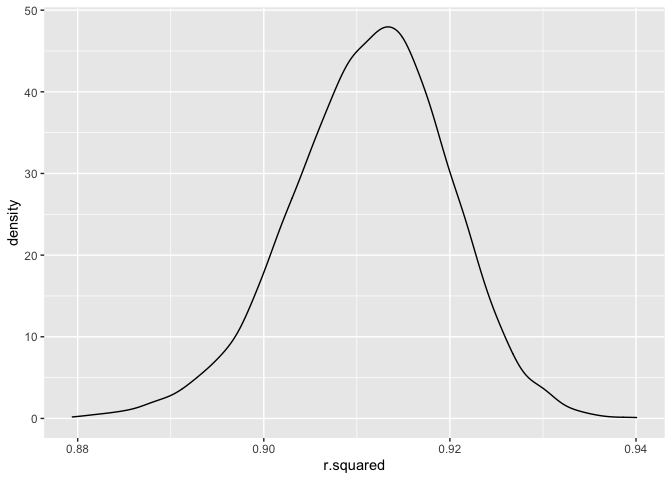
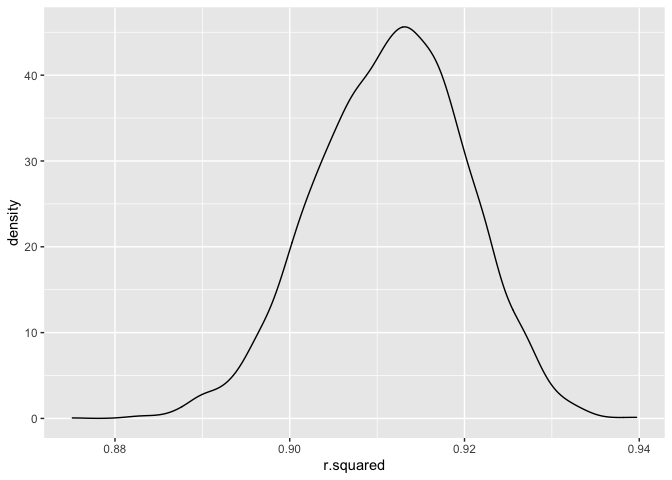
some corrections

diff --git a/p8105_hw6_yg2762.md b/p8105_hw6_yg2762.md
@@ -45,10 +45,11 @@ birthweight =
     frace = as.factor(frace),
     frace = fct_recode(frace, "white" = "1", "black" = "2", "asian" = "3", 
                        "puerto rican" = "4", "other" = "8"),
-    malform = as.logical(malform),
+    malform = as.factor(malform),
+    malform = fct_recode(malform, "absent" = "0", "present" = "1"),
     mrace = as.factor(mrace),
     mrace = fct_recode(mrace, "white" = "1", "black" = "2", "asian" = "3", 
-                       "puerto rican" = "4")) 
+                                             "puerto rican" = "4")) 
 ```
 
     ## Rows: 4342 Columns: 20
@@ -88,8 +89,7 @@ cv_df =
   mutate(
     model_1 = map(train, ~lm(bwt ~ delwt, data = .x)),
     model_2 = map(train, ~lm(bwt ~ blength + gaweeks, data = .x)),
-    model_3 = map(train, ~lm(bwt ~ bhead + blength + babysex + bhead*blength + bhead*babysex + blength*babysex + 
-                                   bhead*blength*babysex, data = .x))) %>% 
+    model_3 = map(train, ~lm(bwt ~ bhead + blength + babysex + bhead*blength*babysex, data = .x))) %>% 
   mutate(
    rmse_model_1 = map2_dbl(model_1, test, ~rmse(model = .x, data = .y)),
    rmse_model_2 = map2_dbl(model_2, test, ~rmse(model = .x, data = .y)),
@@ -198,9 +198,9 @@ r_results %>%
   knitr::kable()
 ```
 
-| ci_lower |  ci_upper |
-|---------:|----------:|
-| 0.893385 | 0.9267641 |
+|  ci_lower | ci_upper |
+|----------:|---------:|
+| 0.8944354 | 0.927304 |
 
 ``` r
 beta_results = boot_straps %>% 
@@ -237,4 +237,4 @@ log_beta %>%
 
 | ci_lower | ci_upper |
 |---------:|---------:|
-| 1.965507 |  2.05862 |
+| 1.966283 | 2.058775 |
